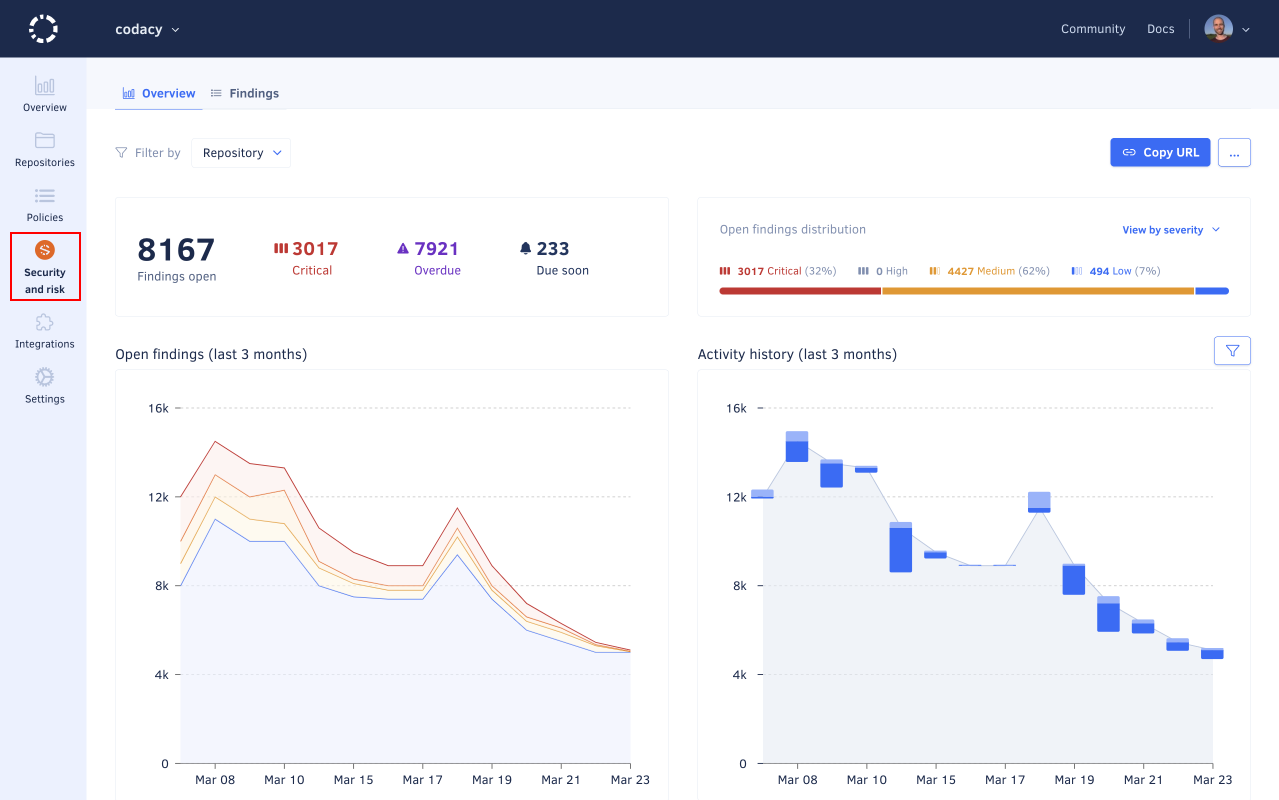
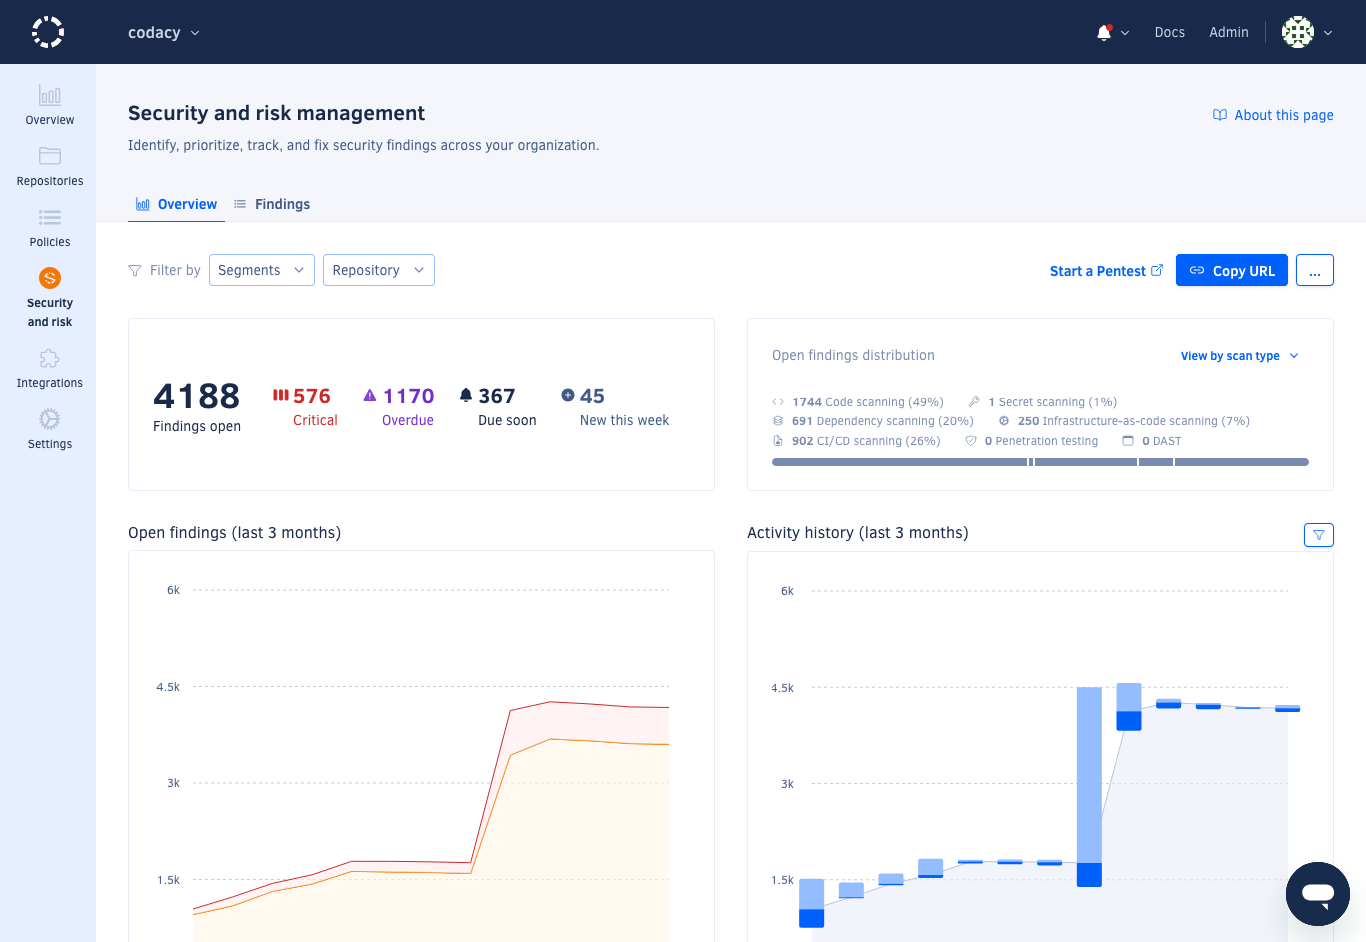
Segments GitHub SRM PLUTO-1072 (#2214)
Added "Segments" documentation with content updates, link corrections, and image adjustments. Updated SRM page filter, security, and repositories docs, along with general formatting and configuration tweaks.

---------

diff --git a/docs/organizations/managing-repositories.md b/docs/organizations/managing-repositories.md
@@ -68,29 +68,19 @@ To follow or unfollow repositories on Codacy:
     You automatically **start following** a repository as soon as you access any page from that repository. For example, when you access the repository using a direct link on your Git provider UI.
 
     Conversely, you automatically **stop following** a repository as soon as you try accessing any page from that repository but you don't have permissions to see that repository anymore.
+ 
+## Finding your repositories with Segments {: id="provider-segments"}
 
-## Repository Custom Properties Filter {: id="custom-properties-filter"}
-
-Codacy allows you to filter repositories based on **Repository Custom Properties** from GitHub. This feature helps you to categorize and filter repositories more effectively within the Codacy platform.
+Codacy allows you to utilise [**Segments**](../segments) to categorize and filter repositories more effectively within the Codacy platform.
+!!! info "Check out how to [enable and configure **Segments**](../segments/#enabling-segments)"
 
 ![Repositories list filter](images/organization-manage-repos-custom-properties.png)
 
-To enable this feature, users must go through an **initial sync** between GitHub and Codacy, which ensures that the repository custom properties from GitHub are reflected in Codacy.
 
 ![Repositories list sync](images/organization-manage-repos-custom-properties-sync.png)
 
-!!! important
-    For changes to **Repository Custom Properties** in GitHub to be **automatically** reflected in Codacy, users need to [accept the new permission request made by the Codacy GitHub app](https://docs.github.com/en/apps/using-github-apps/approving-updated-permissions-for-a-github-app). Accepting this permission enables automatic synchronization of any future changes to the custom properties in GitHub.
 
-    If the permission is **not accepted**, users will still be able to use Repository Custom Properties as filters in Codacy, but will need to manually trigger a sync. This can be done using the **manual sync** button available in the filter dropdown, which allows users to synchronize changes from GitHub, though the process may take longer.
-
-Once the sync is completed, you can use these custom properties as a filter to better locate and organize repositories within Codacy.
-
-!!! note
-    To fully take advantage of this feature, you can create, use, and manage custom properties for your repositories directly in GitHub. Custom properties allow you to assign tags or metadata to repositories, making it easier to categorize and filter them.
-
-    For detailed steps on how to add, edit, and manage **Repository Custom Properties** in GitHub, refer to [GitHub's official documentation](https://docs.github.com/en/organizations/managing-organization-settings/managing-custom-properties-for-repositories-in-your-organization#adding-custom-properties).
 
 ## See also
-
--   [Which metrics does Codacy calculate?](../faq/code-analysis/which-metrics-does-codacy-calculate.md)
+-  [How to setup Segments?](../segments)
+-  [Which metrics does Codacy calculate?](../faq/code-analysis/which-metrics-does-codacy-calculate.md)

diff --git a/docs/organizations/managing-security-and-risk.md b/docs/organizations/managing-security-and-risk.md
@@ -28,7 +28,9 @@ The overview page includes six panels:
 -   [Top 10 high-risk repositories](#top-10-high-risk-repositories)
 -   [Top 10 common security categories](#top-10-common-security-categories)
 
-To limit the information displayed in each panel to a specific set of repositories, use the filter drop-down above the main area.
+To limit the information displayed in each panel, use the filter drop-down above the main area, and choose the relevant repositories, or utilise [**Segments**](../segments).
+!!! info "Check out how to [enable and configure **Segments**](../segments/#enabling-segments)"
+
 
 ### Open findings overview
 
@@ -91,7 +93,8 @@ To access the findings page, access the [overview page](#dashboard) and click th
 
 ![Security and risk management findings page](images/security-risk-management-findings.png)
 
-When viewing the findings, you can update the filtering criteria by clicking the **Severity**, **Status**, **Repository**, **Security category**, or **Scan type** drop-downs above the list.
+When viewing the findings, you can update the filtering criteria by clicking the  [**Segments**](../segments) , **Repository**, **Severity**, **Status**,  **Security category**, or **Scan type** drop-downs above the list.
+!!! info "Check out how to [enable and configure **Segments**](../segments/#enabling-segments)"
 
 The **Details** column offers a quick overview of each finding in the list, including its title, [source platform](#opening-and-closing-items), [scan type](#scan-types), [security category](#supported-security-categories), and related information such as the repository name, Jira issue key, or penetration testing report URL. To find out more, click this overview to navigate to the finding details on the source platform.
 
@@ -100,6 +103,8 @@ The **Details** column offers a quick overview of each finding in the list, incl
 ## Sharing a filtered view of findings {: id="sharing-filtered-view"}
 
 To share the current view of the overview or findings page, click the **Copy URL** button in the top right-hand corner of the page. This action copies the URL with the current filters applied to the clipboard.
+
+!!! Important " [**Segments**](../segments) filter won't be considered when sharing the filtered view"
 
 ## Exporting findings {: id="exporting-the-security-item-list"}
 

diff --git a/docs/organizations/segments.md b/docs/organizations/segments.md
@@ -1,0 +1,36 @@
+# Segments
+Segments are dimensions that Codacy reads from your provider that organizes repositories into relevant groups for you. Today, Segments is available for: [GitHub Custom Properties](#github-custom-properties)
+  
+
+## Where can Segments be utilised?
+- [Repository list](../managing-repositories/#provider-segments) 
+- [Security & Management Risk](../managing-security-and-risk/)
+
+## Enabling Segments {: id="enabling-segments"}
+To enable Segments, an initial sync between your provider and Codacy needs to happen. Once completed, you can use Segments to better locate and organize repositories within Codacy.
+![Segments sync](../organizations/images/Segments-no-sync.png)
+![Segments after sync](../organizations/images/segments-after-sync.png)
+<br><br>
+
+
+### GitHub Custom Properties {: id="github-custom-properties"}
+Create, use, and manage custom properties for your repositories directly in GitHub. Custom properties allow you to assign tags or metadata to repositories, making it easier to categorize and filter them.
+
+> Refer to [GitHub's official documentation](https://docs.github.com/en/organizations/managing-organization-settings/managing-custom-properties-for-repositories-in-your-organization#adding-custom-properties) for detailed steps on how to add, edit, and manage repository **Custom Properties**. 
+
+#### Keep Segments in sync
+For changes to repository **Custom Properties** in GitHub to be **automatically** reflected in Codacy, users need to [accept the new permission request made by the Codacy GitHub app](https://docs.github.com/en/apps/using-github-apps/approving-updated-permissions-for-a-github-app). 
+!!! note
+    If the permission is **not accepted**, users will still be able to use Repository Custom Properties as filters in Codacy, but will need to manually trigger a sync. This can be done using the **manual sync** button available in the filter dropdown, which allows users to synchronize changes from GitHub, though the process may take longer.
+    
+<br><br>
+***
+#### Check out what's new, and to come, in Codacy
+<div>
+  <iframe id="inlineRoadmap"
+      title="Codacy Roadmap"
+      width="100%"
+      height="472"
+    src="https://portal.productboard.com/2ng56ct2oir3adgbkvzfgqks" frameborder="0" >
+  </iframe>
+</div>
